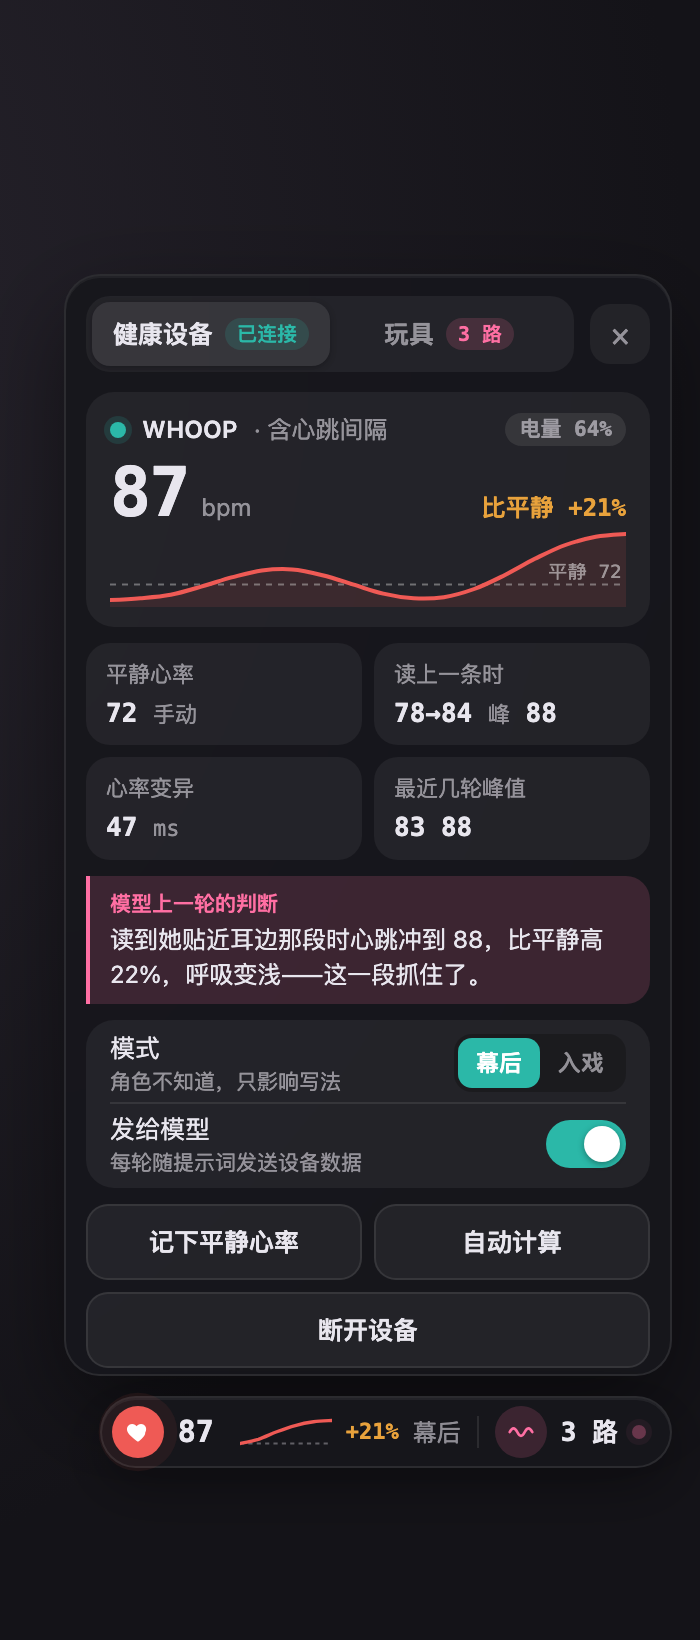
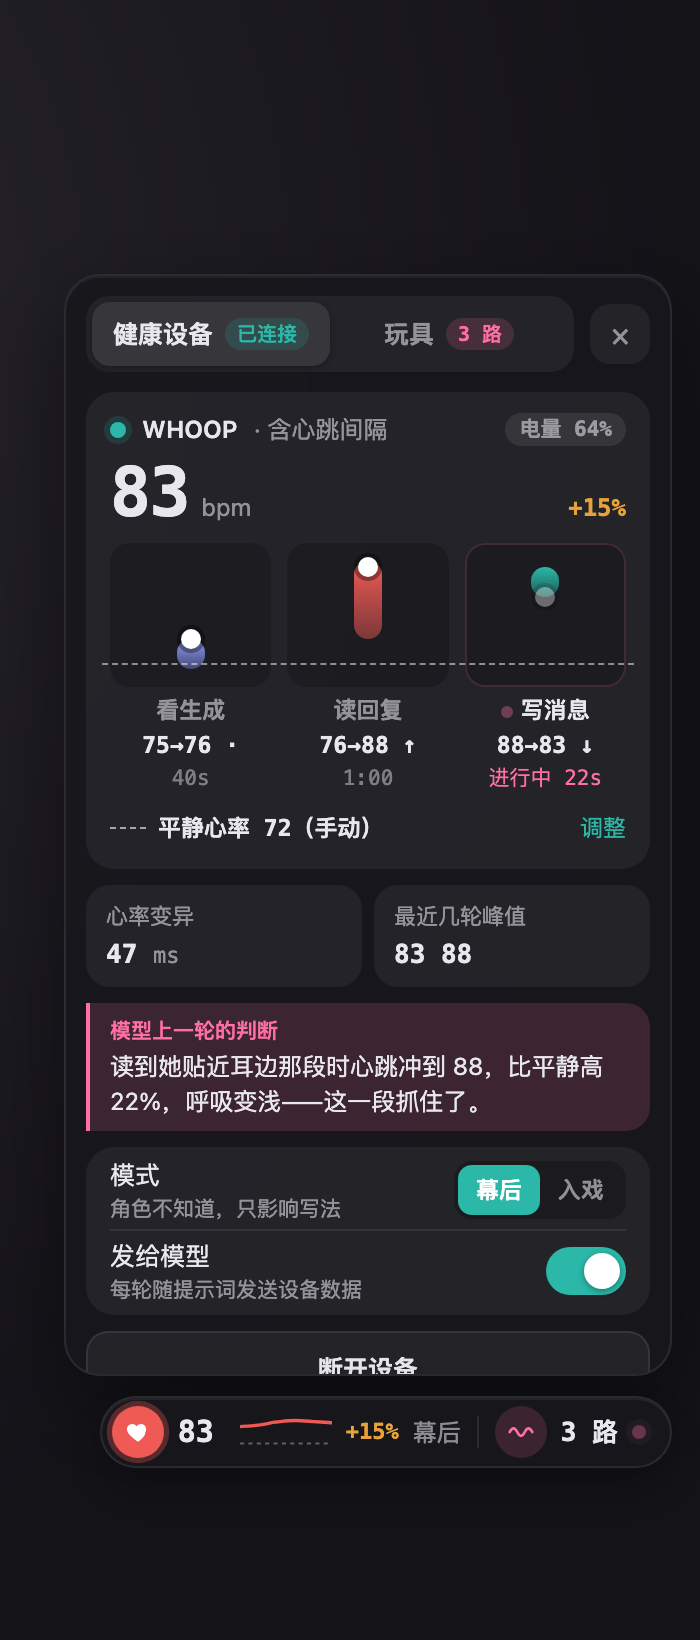
heartlink 0.13.0

diff --git a/index.js b/index.js
@@ -1,4 +1,4 @@
-// heartlink v0.12.0 — SillyTavern 扩展：心率注入 + 触觉输出（Tavern Bio-Context 参考实现）。构建产物。
+// heartlink v0.13.0 — SillyTavern 扩展：心率注入 + 触觉输出（Tavern Bio-Context 参考实现）。构建产物。
 // https://github.com/kcgoofee-jpg/heartlink-extension
 // heartlink core — 纯函数层。没有 DOM、没有蓝牙、没有酒馆 API，Node 和浏览器都能跑。
 // 运行时（runtime.js）和单元测试共用这一份。构建时与 runtime.js 拼成 dist/heartlink.js。
@@ -507,7 +507,7 @@ const HeartlinkCore = (() => {
     } else L.push('write: n/a (no typing detected)');
 
     L.push(turn.away.length
-      ? 'away: ' + turn.away.map(([a, b, k]) => { const st = stats(inWin(samples, a, b)); return `${fmtClock(a)}–${fmtClock(b)} ${k}${st ? ` [${st.min}–${st.max}]` : ''}`; }).join('; ')
+      ? 'away: ' + turn.away.slice(-5).map(([a, b, k]) => { const st = stats(inWin(samples, a, b)); return `${fmtClock(a)}–${fmtClock(b)} ${k}${st ? ` [${st.min}–${st.max}]` : ''}`; }).join('; ')
       : 'away: none');
 
     const sendSt = stats(inWin(samples, now - 5000, now));
@@ -700,6 +700,7 @@ const HeartlinkHaptics = (() => {
   function createRegistry({ timers, now, emit, policy, log }) {
     const T = timers;
     const items = new Map();   // id → { caps, handler, lastAt, run }
+    const queued = new Set();  // 回复里排队、还没开始的动作（timer id）；全部停止时一并取消
     let last = null;
     let lastOk = null;   // 块里的 device 行用最近一次成功的触发
 
@@ -733,7 +734,11 @@ const HeartlinkHaptics = (() => {
     }
     function stop(id) {
       if (id) { const it = items.get(String(id)); if (it) stopOne(String(id), it); }
-      else for (const [k, it] of items) stopOne(k, it);
+      else {
+        for (const x of queued) T.clearTimeout(x);
+        queued.clear();
+        for (const [k, it] of items) stopOne(k, it);
+      }
       emit('bio:actuate', { t: now(), target: id || '*', action: { stop: true }, results: [], source: 'stop' });
     }
 
@@ -789,13 +794,14 @@ const HeartlinkHaptics = (() => {
         const ready = Math.max(0, ...hits.map(([, it]) => (it.lastAt == null ? 0 : it.lastAt + gap - now() + 50)));
         const at = first ? ready : Math.max(ready, prevAt + Math.max(gap, prevSpan + 300) + 50);
         const frames = patternFrames(act.pattern, act.intensity, act.durationMs, { defaultMs: pol.defaultMs });
-        ids.push(T.setTimeout(() => { actuate(act.target, act, { source }); }, at));
+        const tid = T.setTimeout(() => { queued.delete(tid); actuate(act.target, act, { source }); }, at);
+        queued.add(tid); ids.push(tid);
         prevAt = at; prevSpan = frames[frames.length - 1][0]; first = false;
       }
-      return { scheduled: ids.length, cancel() { ids.forEach((x) => T.clearTimeout(x)); } };
+      return { scheduled: ids.length, cancel() { ids.forEach((x) => { T.clearTimeout(x); queued.delete(x); }); } };
     }
 
-    return { register, unregister, list, actuate, stop, runReplyActs, last: () => last, lastOk: () => lastOk };
+    return { register, unregister, list, actuate, stop, runReplyActs, pending: () => queued.size, last: () => last, lastOk: () => lastOk };
   }
 
   // ---------- Intiface / buttplug ----------
@@ -988,7 +994,7 @@ if (typeof module !== 'undefined' && module.exports) module.exports = HeartlinkH
 (function heartlinkRuntime() {
   'use strict';
 
-  const VERSION = '0.12.0';
+  const VERSION = '0.13.0';
   const CONFIG = {
     RUNTIME_KEY: '__HEARTLINK_RUNTIME__',
     PUBLIC_KEY: 'heartlink',
@@ -1024,7 +1030,7 @@ if (typeof module !== 'undefined' && module.exports) module.exports = HeartlinkH
     LAB_URL: 'http://127.0.0.1:12346/lab/',   // 设备实验室（~/dev/tbc/device-lab，npm run sim）
   };
   const LOG = '[heartlink]';
-  const GUIDE_BOOK = [{"name":"00 bio_context 读法（常驻）","enabled":true,"content":"<bio_context_guide>\n对话中可能出现一个 <bio_context> 块（Tavern Bio-Context v0.3）。块首行可能带 device / transport / cadence（采样间隔）/ rr（是否有心跳间期）/ trigger（本轮是新消息、重roll、continue 还是 impersonate）；cadence 越粗（30 秒以上）数据越稀疏，trigger 不是 normal 时 read 相位描述的是上一条被重roll或被续写的回复。它记录屏幕前那位真实读者在上一轮到这一轮之间的心率，按页面事件切成相位；数据来自读者佩戴的心率设备，是真实测量，不是剧情设定。\n相位归属（scope 行）：gen、read、read-pos 是读者等待和阅读**上一条回复**时的身体；write、send 是写**这一条消息**时和发送那一刻的身体。不要把 read 的峰值安到本轮新消息里发生的事情上。字段：\n- baseline：本场基线心率（quiet-median = 安静段中位数；p20 = 全场 20 分位；manual = 手动）与安静时 HRV。\n- prior：非实时来源（官方 API / 健康桥）的日级数据，带日期：昨夜恢复分、HRV、静息心率、睡眠时长、皮温。它说明读者今天的底子，不是此刻的反应；日期不是今天时不要当作今天。\n- history：最近几轮“读回复”的峰值、读时长、HRV，按时间顺序，最右是上一轮。看的是趋势：峰值一轮比一轮高说明越来越投入，越来越低说明在冷却。\n- gen：读者看上一条回复生成期间（ttft 等首字、reasoning 思维链、body 正文）的心率。\n- read：读上一条回复的时长、心率走向 [区间]、峰值出现在回复出完后多少秒、rr-loss（心跳间隔缺失率，越高说明手腕在动、数值可信度越低）、hrv。**这是最能反映读者对上一段内容反应的相位**；峰值时刻大致对应读到的位置。带 flag: too-long 的读回复不可当作阅读反应。\n- read-pos：把 read 的峰值时刻按阅读速度换算成大约读到回复的百分比与段落；est 是估计、cal 是按本场历史校准。它只回答“峰值大约对应哪一段”。写 partial 时表示读者读的时间远不够读完这条回复（在跳读或没读完），只给出峰值在读时长里的相对位置，不要当成段落位置。\n- cov：该相位的样本覆盖率，低于 70% 的相位数据不可靠。\n- write：写消息的时长、字数、停顿、删改与心率。手腕在动，只看大趋势。\n- away：页面切走或长时间无操作的区间，其中的心率与对话无关，忽略。\n- send：按下发送时的心率与相对基线的百分比。\n- env：读者所在房间的温湿度最近值，与身体反应无关，只是环境背景。\n- 其它信号行（如 pressure(civet, 100ms): read 7.9→12.3 kPa …）：读者身上别的传感器在同一相位里的走向，单位随行；只看相对变化，不与心率合成结论。\n- device：读者当前连接的设备正在做什么（强度、模式、持续时间），来自设备控制器的登记；它是作者视角的幕后事实，author 模式下角色不知道，character 模式下只允许角色察觉由它引起的可观察反应，不点名设备。\n- series：每 10 秒一个点的原始序列。\n判断尺度：baseline 为 n/a 时不做“比刚才 / 比平时快慢”的比较；与 away 重叠、带 flag 或 cov 低于 70% 的相位不据此判断。相对基线 10% 以内是噪声；持续高 20% 以上且出现在 read 相位，才是明确反应。HRV 明显低于安静值说明绷着或亢奋，明显高说明放松。块内没有结论，解释由你完成；块不出现时忽略本说明。\n</bio_context_guide>","strategy":{"type":"constant","keys":[]},"position":{"type":"after_character_definition","order":100},"recursion":{"prevent_incoming":true,"prevent_outgoing":true},"extra":{"heartlink":"0.12.0"}},{"name":"10 mode=backstage 幕后（旧 author）","enabled":true,"content":"<bio_context> 处于幕后模式（backstage，旧名 author）：它是给你这位作者/裁决者的幕后读者反馈，剧情里任何角色都不知道它，{{user}} 角色的身体状态与它无关。只做三件事：\n1. 从 read 与 history 判断读者对上一段的反应走向（被抓住了 / 平淡 / 正在冷却 / 数据不足），据此决定本段的详略、张力与结尾钩子；预设若有推进 / 节奏模式，结构（跳时、转场、新事件）仍按预设，读者反应只调写法。\n2. 反应上升时顺势推进、加深、留悬念；平淡时换手法（换视角、加冲突、加感官细节、缩短铺垫），不要重复上一段的写法；冷却时给一个新钩子。\n3. 不在正文里提及心率、设备、读者或任何数据；不让角色“察觉”读者；不因数据改变既定事实与规则裁决。","strategy":{"type":"selective","keys":["mode=\"backstage\"","mode=\"author\""]},"position":{"type":"at_depth","role":"system","depth":2,"order":90},"recursion":{"prevent_incoming":true,"prevent_outgoing":true},"extra":{"heartlink":"0.12.0"}},{"name":"11 mode=in-story 入戏（旧 character）","enabled":true,"content":"<bio_context> 处于入戏模式（in-story，旧名 character）：读者代入 {{user}}。send 是 {{user}} 此刻的身体状态；read 是 {{user}} 经历上一段情节时的反应（只能对应上一段里发生的事，不能安到本轮新动作上）。让在场角色通过可观察的线索察觉（呼吸、面色、手、声音、姿态），并按各自性格与关系回应。仍然不说数字、不提设备；gen、write、away 的数据不用于角色感知。首行若有 perceiver 属性（卡片指定的感知者），只让这些角色表达察觉，其他在场角色照常行动、不评论 {{user}} 的身体。","strategy":{"type":"selective","keys":["mode=\"in-story\"","mode=\"character\""]},"position":{"type":"at_depth","role":"system","depth":2,"order":90},"recursion":{"prevent_incoming":true,"prevent_outgoing":true},"extra":{"heartlink":"0.12.0"}}];
+  const GUIDE_BOOK = [{"name":"00 bio_context 读法（常驻）","enabled":true,"content":"<bio_context_guide>\n对话中可能出现一个 <bio_context> 块（Tavern Bio-Context v0.3）。块首行可能带 device / transport / cadence（采样间隔）/ rr（是否有心跳间期）/ trigger（本轮是新消息、重roll、continue 还是 impersonate）；cadence 越粗（30 秒以上）数据越稀疏，trigger 不是 normal 时 read 相位描述的是上一条被重roll或被续写的回复。它记录屏幕前那位真实读者在上一轮到这一轮之间的心率，按页面事件切成相位；数据来自读者佩戴的心率设备，是真实测量，不是剧情设定。\n相位归属（scope 行）：gen、read、read-pos 是读者等待和阅读**上一条回复**时的身体；write、send 是写**这一条消息**时和发送那一刻的身体。不要把 read 的峰值安到本轮新消息里发生的事情上。字段：\n- baseline：本场基线心率（quiet-median = 安静段中位数；p20 = 全场 20 分位；manual = 手动）与安静时 HRV。\n- prior：非实时来源（官方 API / 健康桥）的日级数据，带日期：昨夜恢复分、HRV、静息心率、睡眠时长、皮温。它说明读者今天的底子，不是此刻的反应；日期不是今天时不要当作今天。\n- history：最近几轮“读回复”的峰值、读时长、HRV，按时间顺序，最右是上一轮。看的是趋势：峰值一轮比一轮高说明越来越投入，越来越低说明在冷却。\n- gen：读者看上一条回复生成期间（ttft 等首字、reasoning 思维链、body 正文）的心率。\n- read：读上一条回复的时长、心率走向 [区间]、峰值出现在回复出完后多少秒、rr-loss（心跳间隔缺失率，越高说明手腕在动、数值可信度越低）、hrv。**这是最能反映读者对上一段内容反应的相位**；峰值时刻大致对应读到的位置。带 flag: too-long 的读回复不可当作阅读反应。\n- read-pos：把 read 的峰值时刻按阅读速度换算成大约读到回复的百分比与段落；est 是估计、cal 是按本场历史校准。它只回答“峰值大约对应哪一段”。写 partial 时表示读者读的时间远不够读完这条回复（在跳读或没读完），只给出峰值在读时长里的相对位置，不要当成段落位置。\n- cov：该相位的样本覆盖率，低于 70% 的相位数据不可靠。\n- write：写消息的时长、字数、停顿、删改与心率。手腕在动，只看大趋势。\n- away：页面切走或长时间无操作的区间，其中的心率与对话无关，忽略。\n- send：按下发送时的心率与相对基线的百分比。\n- env：读者所在房间的温湿度最近值，与身体反应无关，只是环境背景。\n- 其它信号行（如 pressure(civet, 100ms): read 7.9→12.3 kPa …）：读者身上别的传感器在同一相位里的走向，单位随行；只看相对变化，不与心率合成结论。\n- device：读者当前连接的设备正在做什么（强度、模式、持续时间），来自设备控制器的登记；它是作者视角的幕后事实，author 模式下角色不知道，character 模式下只允许角色察觉由它引起的可观察反应，不点名设备。\n- series：每 10 秒一个点的原始序列。\n判断尺度：baseline 为 n/a 时不做“比刚才 / 比平时快慢”的比较；与 away 重叠、带 flag 或 cov 低于 70% 的相位不据此判断。相对基线 10% 以内是噪声；持续高 20% 以上且出现在 read 相位，才是明确反应。HRV 明显低于安静值说明绷着或亢奋，明显高说明放松。块内没有结论，解释由你完成；块不出现时忽略本说明。\n</bio_context_guide>","strategy":{"type":"constant","keys":[]},"position":{"type":"after_character_definition","order":100},"recursion":{"prevent_incoming":true,"prevent_outgoing":true},"extra":{"heartlink":"0.13.0"}},{"name":"10 mode=backstage 幕后（旧 author）","enabled":true,"content":"<bio_context> 处于幕后模式（backstage，旧名 author）：它是给你这位作者/裁决者的幕后读者反馈，剧情里任何角色都不知道它，{{user}} 角色的身体状态与它无关。只做三件事：\n1. 从 read 与 history 判断读者对上一段的反应走向（被抓住了 / 平淡 / 正在冷却 / 数据不足），据此决定本段的详略、张力与结尾钩子；预设若有推进 / 节奏模式，结构（跳时、转场、新事件）仍按预设，读者反应只调写法。\n2. 反应上升时顺势推进、加深、留悬念；平淡时换手法（换视角、加冲突、加感官细节、缩短铺垫），不要重复上一段的写法；冷却时给一个新钩子。\n3. 不在正文里提及心率、设备、读者或任何数据；不让角色“察觉”读者；不因数据改变既定事实与规则裁决。","strategy":{"type":"selective","keys":["mode=\"backstage\"","mode=\"author\""]},"position":{"type":"at_depth","role":"system","depth":2,"order":90},"recursion":{"prevent_incoming":true,"prevent_outgoing":true},"extra":{"heartlink":"0.13.0"}},{"name":"11 mode=in-story 入戏（旧 character）","enabled":true,"content":"<bio_context> 处于入戏模式（in-story，旧名 character）：读者代入 {{user}}。send 是 {{user}} 此刻的身体状态；read 是 {{user}} 经历上一段情节时的反应（只能对应上一段里发生的事，不能安到本轮新动作上）。让在场角色通过可观察的线索察觉（呼吸、面色、手、声音、姿态），并按各自性格与关系回应。仍然不说数字、不提设备；gen、write、away 的数据不用于角色感知。首行若有 perceiver 属性（卡片指定的感知者），只让这些角色表达察觉，其他在场角色照常行动、不评论 {{user}} 的身体。","strategy":{"type":"selective","keys":["mode=\"in-story\"","mode=\"character\""]},"position":{"type":"at_depth","role":"system","depth":2,"order":90},"recursion":{"prevent_incoming":true,"prevent_outgoing":true},"extra":{"heartlink":"0.13.0"}}];
   const GUIDE_BOOK_NATIVE = [{"uid":0,"key":[],"keysecondary":[],"comment":"00 bio_context 读法（常驻）","content":"<bio_context_guide>\n对话中可能出现一个 <bio_context> 块（Tavern Bio-Context v0.3）。块首行可能带 device / transport / cadence（采样间隔）/ rr（是否有心跳间期）/ trigger（本轮是新消息、重roll、continue 还是 impersonate）；cadence 越粗（30 秒以上）数据越稀疏，trigger 不是 normal 时 read 相位描述的是上一条被重roll或被续写的回复。它记录屏幕前那位真实读者在上一轮到这一轮之间的心率，按页面事件切成相位；数据来自读者佩戴的心率设备，是真实测量，不是剧情设定。\n相位归属（scope 行）：gen、read、read-pos 是读者等待和阅读**上一条回复**时的身体；write、send 是写**这一条消息**时和发送那一刻的身体。不要把 read 的峰值安到本轮新消息里发生的事情上。字段：\n- baseline：本场基线心率（quiet-median = 安静段中位数；p20 = 全场 20 分位；manual = 手动）与安静时 HRV。\n- prior：非实时来源（官方 API / 健康桥）的日级数据，带日期：昨夜恢复分、HRV、静息心率、睡眠时长、皮温。它说明读者今天的底子，不是此刻的反应；日期不是今天时不要当作今天。\n- history：最近几轮“读回复”的峰值、读时长、HRV，按时间顺序，最右是上一轮。看的是趋势：峰值一轮比一轮高说明越来越投入，越来越低说明在冷却。\n- gen：读者看上一条回复生成期间（ttft 等首字、reasoning 思维链、body 正文）的心率。\n- read：读上一条回复的时长、心率走向 [区间]、峰值出现在回复出完后多少秒、rr-loss（心跳间隔缺失率，越高说明手腕在动、数值可信度越低）、hrv。**这是最能反映读者对上一段内容反应的相位**；峰值时刻大致对应读到的位置。带 flag: too-long 的读回复不可当作阅读反应。\n- read-pos：把 read 的峰值时刻按阅读速度换算成大约读到回复的百分比与段落；est 是估计、cal 是按本场历史校准。它只回答“峰值大约对应哪一段”。写 partial 时表示读者读的时间远不够读完这条回复（在跳读或没读完），只给出峰值在读时长里的相对位置，不要当成段落位置。\n- cov：该相位的样本覆盖率，低于 70% 的相位数据不可靠。\n- write：写消息的时长、字数、停顿、删改与心率。手腕在动，只看大趋势。\n- away：页面切走或长时间无操作的区间，其中的心率与对话无关，忽略。\n- send：按下发送时的心率与相对基线的百分比。\n- env：读者所在房间的温湿度最近值，与身体反应无关，只是环境背景。\n- 其它信号行（如 pressure(civet, 100ms): read 7.9→12.3 kPa …）：读者身上别的传感器在同一相位里的走向，单位随行；只看相对变化，不与心率合成结论。\n- device：读者当前连接的设备正在做什么（强度、模式、持续时间），来自设备控制器的登记；它是作者视角的幕后事实，author 模式下角色不知道，character 模式下只允许角色察觉由它引起的可观察反应，不点名设备。\n- series：每 10 秒一个点的原始序列。\n判断尺度：baseline 为 n/a 时不做“比刚才 / 比平时快慢”的比较；与 away 重叠、带 flag 或 cov 低于 70% 的相位不据此判断。相对基线 10% 以内是噪声；持续高 20% 以上且出现在 read 相位，才是明确反应。HRV 明显低于安静值说明绷着或亢奋，明显高说明放松。块内没有结论，解释由你完成；块不出现时忽略本说明。\n</bio_context_guide>","constant":true,"vectorized":false,"selective":true,"selectiveLogic":0,"addMemo":true,"order":100,"position":1,"disable":false,"excludeRecursion":true,"preventRecursion":true,"delayUntilRecursion":false,"probability":100,"useProbability":true,"depth":4,"group":"","groupOverride":false,"groupWeight":100,"scanDepth":null,"caseSensitive":false,"matchWholeWords":false,"useGroupScoring":null,"automationId":"","role":0,"sticky":0,"cooldown":0,"delay":0,"displayIndex":0},{"uid":1,"key":["mode=\"backstage\"","mode=\"author\""],"keysecondary":[],"comment":"10 mode=backstage 幕后（旧 author）","content":"<bio_context> 处于幕后模式（backstage，旧名 author）：它是给你这位作者/裁决者的幕后读者反馈，剧情里任何角色都不知道它，{{user}} 角色的身体状态与它无关。只做三件事：\n1. 从 read 与 history 判断读者对上一段的反应走向（被抓住了 / 平淡 / 正在冷却 / 数据不足），据此决定本段的详略、张力与结尾钩子；预设若有推进 / 节奏模式，结构（跳时、转场、新事件）仍按预设，读者反应只调写法。\n2. 反应上升时顺势推进、加深、留悬念；平淡时换手法（换视角、加冲突、加感官细节、缩短铺垫），不要重复上一段的写法；冷却时给一个新钩子。\n3. 不在正文里提及心率、设备、读者或任何数据；不让角色“察觉”读者；不因数据改变既定事实与规则裁决。","constant":false,"vectorized":false,"selective":true,"selectiveLogic":0,"addMemo":true,"order":90,"position":4,"disable":false,"excludeRecursion":true,"preventRecursion":true,"delayUntilRecursion":false,"probability":100,"useProbability":true,"depth":2,"group":"","groupOverride":false,"groupWeight":100,"scanDepth":null,"caseSensitive":false,"matchWholeWords":false,"useGroupScoring":null,"automationId":"","role":0,"sticky":0,"cooldown":0,"delay":0,"displayIndex":1},{"uid":2,"key":["mode=\"in-story\"","mode=\"character\""],"keysecondary":[],"comment":"11 mode=in-story 入戏（旧 character）","content":"<bio_context> 处于入戏模式（in-story，旧名 character）：读者代入 {{user}}。send 是 {{user}} 此刻的身体状态；read 是 {{user}} 经历上一段情节时的反应（只能对应上一段里发生的事，不能安到本轮新动作上）。让在场角色通过可观察的线索察觉（呼吸、面色、手、声音、姿态），并按各自性格与关系回应。仍然不说数字、不提设备；gen、write、away 的数据不用于角色感知。首行若有 perceiver 属性（卡片指定的感知者），只让这些角色表达察觉，其他在场角色照常行动、不评论 {{user}} 的身体。","constant":false,"vectorized":false,"selective":true,"selectiveLogic":0,"addMemo":true,"order":90,"position":4,"disable":false,"excludeRecursion":true,"preventRecursion":true,"delayUntilRecursion":false,"probability":100,"useProbability":true,"depth":2,"group":"","groupOverride":false,"groupWeight":100,"scanDepth":null,"caseSensitive":false,"matchWholeWords":false,"useGroupScoring":null,"automationId":"","role":0,"sticky":0,"cooldown":0,"delay":0,"displayIndex":2}];
   // 1.0：同一份源码构建两种形态——'script' 酒馆助手全局脚本（旧），'extension' 酒馆扩展
   const FORM = 'extension';
@@ -1365,7 +1371,7 @@ if (typeof module !== 'undefined' && module.exports) module.exports = HeartlinkH
     let ws;
     try { ws = new host.WebSocket(CONFIG.BRIDGE_URL); } catch (_) { return; }
     state.bridge = ws; state.bridgeAttempt = attempt || 0;
-    ws.onopen = () => { state.bridgeAttempt = 0; state.bridgeUp = true; bridgeSend({ cmd: 'hello', client: 'sillytavern-heartlink', version: VERSION }); bridgeState(); console.log(LOG, 'bridge connected', CONFIG.BRIDGE_URL); render(); };
+    ws.onopen = () => { state.bridgeAttempt = 0; state.bridgeUp = true; state.bridgeEverUp = true; bridgeSend({ cmd: 'hello', client: 'sillytavern-heartlink', version: VERSION }); bridgeState(); console.log(LOG, 'bridge connected', CONFIG.BRIDGE_URL); render(); };
     ws.onmessage = (ev) => {
       let m; try { m = JSON.parse(ev.data); } catch (_) { return; }
       if (!m || !m.event) return;
@@ -1376,7 +1382,7 @@ if (typeof module !== 'undefined' && module.exports) module.exports = HeartlinkH
       } else if (m.event === 'bio:state' && m.detail) { state.bridgeInfo = m.detail; render(); }
       else if (m.event === 'bio:prior' && m.detail) { setPrior(m.detail); console.log(LOG, 'prior from bridge', m.detail.source, m.detail.date); }
     };
-    ws.onclose = () => { state.bridgeUp = false; state.bridgeInfo = null; render(); const n = state.bridgeAttempt || 0; const delay = CONFIG.BRIDGE_RETRY_MS[Math.min(n, CONFIG.BRIDGE_RETRY_MS.length - 1)]; host.setTimeout(() => bridgeConnect(n + 1), delay); };
+    ws.onclose = () => { state.bridgeUp = false; state.bridgeInfo = null; render(); const n = state.bridgeAttempt || 0; if (!state.bridgeEverUp && n >= 2) { console.log(LOG, 'bridge not running; stop retrying (reload the page after starting it)'); return; } const delay = CONFIG.BRIDGE_RETRY_MS[Math.min(n, CONFIG.BRIDGE_RETRY_MS.length - 1)]; host.setTimeout(() => bridgeConnect(n + 1), delay); };
     ws.onerror = () => {};
   }
   function currentPhase() {
@@ -1675,6 +1681,8 @@ if (typeof module !== 'undefined' && module.exports) module.exports = HeartlinkH
     return promise;
   }
   async function subscribeOnce(device) {
+    const prev = state.device;
+    if (prev && prev !== device) { try { if (prev.gatt && prev.gatt.connected) prev.gatt.disconnect(); } catch (_) {} }   // 换设备时释放旧的
     const server = await device.gatt.connect();
     const service = await server.getPrimaryService('heart_rate');
     const characteristic = await service.getCharacteristic('heart_rate_measurement');
@@ -1729,10 +1737,11 @@ if (typeof module !== 'undefined' && module.exports) module.exports = HeartlinkH
       try { await subscribe(device); stopAdvertisementWatch(); pushEvent('ble_resumed', { via: 'advertisement' }); toast('success', `已自动重连 ${device.name || '心率设备'}`); }
       catch (err) { console.log(LOG, 'advertisement reconnect failed, still watching:', err && err.message); }
     };
+    const ac = typeof host.AbortController === 'function' ? new host.AbortController() : null;
     try {
       device.addEventListener('advertisementreceived', onAdv);
-      await device.watchAdvertisements();
-      state.advWatch = { device, onAdv };
+      await device.watchAdvertisements(ac ? { signal: ac.signal } : undefined);
+      state.advWatch = { device, onAdv, ac };
       state.waitingForDevice = true;
       return true;
     } catch (err) {
@@ -1746,6 +1755,7 @@ if (typeof module !== 'undefined' && module.exports) module.exports = HeartlinkH
     state.advWatch = null; state.waitingForDevice = false;
     if (!w) return;
     try { w.device.removeEventListener('advertisementreceived', w.onAdv); } catch (_) {}
+    try { if (w.ac) w.ac.abort(); } catch (_) {}   // Chrome：用 signal 结束扫描
     try { if (typeof w.device.unwatchAdvertisements === 'function') w.device.unwatchAdvertisements(); } catch (_) {}
   }
   // 看门狗：显示已连接却长时间没数据（常见的“假连接”）→ 先重新订阅，仍没有就断开，交给重连流程
@@ -1753,8 +1763,12 @@ if (typeof module !== 'undefined' && module.exports) module.exports = HeartlinkH
     if (!state.connected || !state.device || state.subscribing) return;
     const last = Math.max(state.lastSample ? state.lastSample.t : 0, state.connectedAt || 0);
     const idle = Date.now() - last;
-    if (idle < CONFIG.STALE_MS) { if (idle < 3000) state.staleStep = 0; return; }
+    if (idle < CONFIG.STALE_MS) { if (idle < 3000) { state.staleStep = 0; if (state.lastSample && Date.now() - state.lastSample.t < 3000) { state.staleFixes = 0; state.staleGaveUp = false; } } return; }
     if (!state.staleStep) {
+      if ((state.staleFixes || 0) >= 3) {   // 连得上却一直不发数据：试过 3 轮就不再折腾，提示一次
+        if (!state.staleGaveUp) { state.staleGaveUp = true; toast('warning', '心率设备连着但一直没有数据：请检查设备是否打开了“心率广播”，或断开后重新连接。'); }
+        return;
+      }
       state.staleStep = 1; state.staleFixes = (state.staleFixes || 0) + 1;
       pushEvent('ble_stale', { idleMs: idle, action: 'resubscribe' });
       console.warn(LOG, `no heart-rate data for ${Math.round(idle / 1000)}s, re-subscribing`);
@@ -1810,10 +1824,8 @@ if (typeof module !== 'undefined' && module.exports) module.exports = HeartlinkH
       const devices = await bt.getDevices();
       const target = devices.find((d) => d.name === state.deviceName) || devices[0];
       if (!target) { console.log(LOG, 'resume: no remembered device'); return; }
-      const onAdv = async () => { try { target.removeEventListener('advertisementreceived', onAdv); } catch (_) {} try { await subscribe(target); toast('success', `已自动重连 ${target.name || '心率设备'}`); } catch (err) { console.warn(LOG, 'resume subscribe failed', err); } };
-      target.addEventListener('advertisementreceived', onAdv);
-      await target.watchAdvertisements();
-      console.log(LOG, 'resume: watching advertisements from', target.name);
+      state.device = state.device || target;   // 让“断开设备”能停掉这次等待
+      if (await waitForAdvertisement(target)) console.log(LOG, 'resume: watching advertisements from', target.name);
     } catch (err) { console.log(LOG, 'resume unavailable:', err && err.message); }
   }
 
@@ -2034,11 +2046,11 @@ if (typeof module !== 'undefined' && module.exports) module.exports = HeartlinkH
       const kind = String(type == null ? '' : type);
       if (!userKinds.has(kind)) { state.backgroundGen = true; clearInject(); state.backgroundSkipped = (state.backgroundSkipped || 0) + 1; pushEvent('background_gen', { kind }); return; }
       state.backgroundGen = false; state.generating = true; state.streamStarted = false; state.reasoningEnded = false;
-      try { const ch = (ctx() || {}).chat || []; const lu = [...ch].reverse().find((m) => m.is_user); if (lu && safeWordHit(lu.mes) && actuators.list().some((a) => a.busy)) { actuators.stop(); toast('info', '听到了停止的话，设备已停'); } } catch (_) {}
+      try { const ch = (ctx() || {}).chat || []; const lu = [...ch].reverse().find((m) => m.is_user); if (lu && safeWordHit(lu.mes) && (actuators.list().some((a) => a.busy) || actuators.pending())) { actuators.stop(); toast('info', '听到了停止的话，设备已停'); } } catch (_) {}
       state.userGenActive = true;
       state.lastTrigger = kind || 'normal';
-      state.continueGen = kind === 'continue';
-      if (state.continueGen) return;                      // continue：不是新的发送，不切相位
+      state.continueGen = kind === 'continue' || kind === 'impersonate';
+      if (state.continueGen) return;                      // continue / impersonate：不是新的一轮，不切相位（只重放上一块）
       state.lastSendT = Date.now();
       pushEvent('send', { kind: kind || 'normal' });
     });
@@ -2102,6 +2114,10 @@ if (typeof module !== 'undefined' && module.exports) module.exports = HeartlinkH
     doc.addEventListener('visibilitychange', onVis);
     disposers.push(() => doc.removeEventListener('visibilitychange', onVis));
     if (doc.visibilityState === 'hidden') pushEvent('hidden');
+    // 没有 Worker 计时时，后台页的计时会被浏览器压慢，玩具可能停不下来：页面一藏起来就全停
+    const onHideStop = () => { if (doc.visibilityState === 'hidden' && hTimers.kind === 'page') { try { actuators.stop(); } catch (_) {} } };
+    doc.addEventListener('visibilitychange', onHideStop);
+    disposers.push(() => doc.removeEventListener('visibilitychange', onHideStop));
   }
 
   // ---------- 悬浮窗（Shadow DOM，底色取酒馆主题变量；强调色固定，避免主题色是灰色时看不出状态） ----------
@@ -2186,6 +2202,32 @@ button:focus-visible{outline:2px solid var(--teal);outline-offset:2px}
 .wide .ref{stroke:rgba(255,255,255,.35);stroke-width:1;stroke-dasharray:3 3;vector-effect:non-scaling-stroke}
 .reflab{fill:rgba(255,255,255,.5);font:9px var(--mono)}
 .empty{color:var(--muted);font-size:12.5px;line-height:1.55;margin:2px 0 10px}
+.phases{position:relative;margin-top:8px}
+.cols{display:grid;grid-template-columns:repeat(3,minmax(0,1fr));gap:8px}
+.ph{display:flex;flex-direction:column;align-items:center;gap:3px;min-width:0}
+.track{position:relative;width:100%;height:72px;border-radius:10px;background:rgba(0,0,0,.18)}
+.range{position:absolute;left:50%;width:14px;margin-left:-7px;border-radius:7px;background:linear-gradient(180deg,var(--heart),rgba(239,90,85,.45))}
+.ph[data-ph="gen"] .range{background:linear-gradient(180deg,#8f9cf5,rgba(124,140,240,.4))}
+.ph[data-ph="write"] .range{background:linear-gradient(180deg,var(--teal),rgba(43,184,168,.4))}
+.now{position:absolute;left:50%;width:10px;height:10px;margin:-5px 0 0 -5px;border-radius:50%;background:#fff;box-shadow:0 0 0 2px rgba(0,0,0,.35)}
+.ph.none .range,.ph.none .now{display:none}
+.ph b{font-size:11.5px;font-weight:600;color:var(--muted)}
+.ph.cur b{color:var(--ink)}
+.ph.cur b::before{content:"";display:inline-block;width:6px;height:6px;border-radius:50%;background:var(--pink);margin-right:4px;vertical-align:middle;animation:blink 1.2s infinite}
+.pt{font:10.5px/1.2 var(--mono);color:var(--muted);opacity:.8}
+.ph.cur .pt{color:var(--pink);opacity:1}
+.ph.cur .track{box-shadow:inset 0 0 0 1px var(--pink-soft)}
+.ph.cur .now{animation:blink 1.2s infinite}
+.pv{font:600 11.5px/1.2 var(--mono);color:var(--ink);white-space:nowrap;overflow:hidden;text-overflow:ellipsis;max-width:100%}
+.baseline{position:absolute;left:-4px;right:-4px;height:0;border-top:1px dashed rgba(255,255,255,.5);pointer-events:none;z-index:2}
+.baselab{display:flex;align-items:center;gap:6px;width:100%;margin-top:8px;border:0;background:transparent;padding:2px 0;cursor:pointer;font-size:11.5px;color:var(--muted);text-align:left}
+.baselab i{width:18px;border-top:1px dashed rgba(255,255,255,.6)}
+.baselab span{font:600 11.5px var(--mono);color:var(--ink)}
+.baselab em{margin-left:auto;font-style:normal;color:var(--teal)}
+.baselab:hover em{text-decoration:underline}
+.basemenu{display:flex;gap:6px;margin-top:8px}
+.basemenu button{flex:1;border:1px solid var(--hair);background:var(--raise2);border-radius:9px;padding:6px;font-size:12px;cursor:pointer}
+.basemenu button:hover{border-color:var(--teal);color:var(--teal)}
 .tiles{display:grid;grid-template-columns:1fr 1fr;gap:6px;margin-bottom:8px}
 .tile{background:var(--raise);border-radius:12px;padding:8px 10px;min-width:0}
 .tile span{display:block;font-size:11px;color:var(--muted);margin-bottom:3px}
@@ -2263,11 +2305,20 @@ button:focus-visible{outline:2px solid var(--teal);outline-offset:2px}
       <div class="block">
         <div class="status"><span class="sdot" data-f="hrDot"></span><b data-f="dev">--</b><span data-f="hrState"></span><span class="chip" data-f="batt"></span></div>
         <div class="big"><span class="n" data-f="cbpm">--</span><span class="u">bpm</span><span class="d" data-f="cdelta"></span></div>
-        <svg class="wide" viewBox="0 0 240 38" preserveAspectRatio="none"><path class="area" data-f="carea" d=""/><line class="ref" data-f="cref" x1="0" x2="240"/><text class="reflab" data-f="crefLabel" x="238" text-anchor="end"></text><path data-f="cline" d=""/></svg>
+        <div class="phases" data-f="phases">
+          <i class="baseline" data-f="baseLine"></i>
+          <div class="cols">
+            <div class="ph" data-ph="gen"><div class="track"><i class="range"></i><i class="now"></i></div><b>看生成</b><span class="pv">--</span><span class="pt"></span></div>
+            <div class="ph" data-ph="read"><div class="track"><i class="range"></i><i class="now"></i></div><b>读回复</b><span class="pv">--</span><span class="pt"></span></div>
+            <div class="ph" data-ph="write"><div class="track"><i class="range"></i><i class="now"></i></div><b>写消息</b><span class="pv">--</span><span class="pt"></span></div>
+          </div>
+        </div>
+        <button class="baselab" data-act="basemenu" title="平静心率：虚线的位置；右上角的百分比也是和它比。点一下可以记下或改回自动"><i></i><span data-f="base">平静心率 --</span><em>调整</em></button>
+        <div class="basemenu" data-f="baseMenu" hidden>
+          <button data-act="baseline">记下现在为平静</button><button data-act="clear">改回自动计算</button>
+        </div>
       </div>
       <div class="tiles">
-        <div class="tile"><span>平静心率</span><b data-f="base">--</b></div>
-        <div class="tile"><span>读上一条时</span><b data-f="read">--</b></div>
         <div class="tile"><span>心率变异</span><b data-f="hrv">--</b></div>
         <div class="tile"><span>最近几轮峰值</span><b data-f="last">--</b></div>
       </div>
@@ -2279,8 +2330,6 @@ button:focus-visible{outline:2px solid var(--teal);outline-offset:2px}
       <div class="item"><div class="lab">发给模型<small>每轮随提示词发送设备数据</small></div><button class="switch" role="switch" data-act="inject" aria-label="发给模型"></button></div>
     </div>
     <div class="row2" data-f="hrTools">
-      <button class="btn" data-act="baseline" title="把最近 60 秒的平均心率记为平静心率">记下平静心率</button>
-      <button class="btn" data-act="clear" title="平静心率改回自动计算">自动计算</button>
       <button class="btn full" data-act="disconnect">断开设备</button>
     </div>
     <ul class="help" data-f="help"></ul>
@@ -2328,7 +2377,7 @@ button:focus-visible{outline:2px solid var(--teal);outline-offset:2px}
 </div>`;
     const q = (s) => root.querySelector(s);
     el = { heart: q('[data-seg="hr"] .heart'), bpm: q('.bpm'), poly: q('.spark path'), sparkRef: q('.spark .ref'), delta: q('.delta'), tag: q('[data-seg="hr"] .tag'), pill: q('.pill'), spark: q('.spark') };
-    ['base', 'read', 'hrv', 'last', 'dev', 'out', 'sig', 'sigBox', 'foot', 'hrBadge', 'toyBadge', 'hrEmpty', 'hrLive', 'hrDot', 'hrState', 'batt', 'cbpm', 'cdelta', 'carea', 'cline', 'cref', 'crefLabel', 'modeHint', 'hrTools', 'toyEmpty', 'toyTiles', 'now', 'lastact', 'wasmState', 'help', 'devs', 'helpBtn']
+    ['base', 'read', 'hrv', 'last', 'dev', 'out', 'sig', 'sigBox', 'foot', 'hrBadge', 'toyBadge', 'hrEmpty', 'hrLive', 'hrDot', 'hrState', 'batt', 'cbpm', 'cdelta', 'phases', 'baseLine', 'baseMenu', 'modeHint', 'hrTools', 'toyEmpty', 'toyTiles', 'now', 'lastact', 'wasmState', 'help', 'devs', 'helpBtn']
       .forEach((f) => { el[f] = q(`[data-f="${f}"]`); });
     el.seg = { hr: q('[data-seg="hr"]'), toy: q('[data-seg="toy"]'), none: q('[data-seg="none"]') };
     el.segsep = q('.segsep');
@@ -2336,6 +2385,7 @@ button:focus-visible{outline:2px solid var(--teal);outline-offset:2px}
     el.tabs = [...root.querySelectorAll('[data-tab]')];
     el.panes = [...root.querySelectorAll('[data-pane]')];
     el.sets = [...root.querySelectorAll('[data-set]')];
+    el.ph = Object.fromEntries([...root.querySelectorAll('[data-ph]')].map((x) => [x.getAttribute('data-ph'), x]));
     el.injSw = q('[data-act="inject"]'); el.vibSw = q('[data-act="vib"]');
     el.toyBtn = q('[data-act="toy"]'); el.wasmBtn = q('[data-act="wasm"]'); el.offBtn = q('[data-act="disconnect"]');
     el.devs.addEventListener('change', (e) => {
@@ -2376,8 +2426,9 @@ button:focus-visible{outline:2px solid var(--teal);outline-offset:2px}
         if (act === 'hide') { setBadgeHidden(true); toast('info', '悬浮窗已隐藏。要恢复：点酒馆左下角的魔杖菜单 → “显示 heartlink 悬浮窗”。'); return; }
         if (act === 'halt') { actuators.stop(); closePanel(); toast('info', '已停止所有设备'); return; }
         if (act === 'preview') { console.log(LOG, 'preview:\n' + compose().text); toast('info', '这一轮要发给模型的内容已打印到浏览器控制台'); return; }
-        if (act === 'baseline') return setManualBaseline();
-        if (act === 'clear') return clearManualBaseline();
+        if (act === 'basemenu') { el.baseMenu.hidden = !el.baseMenu.hidden; return; }
+        if (act === 'baseline') { el.baseMenu.hidden = true; return setManualBaseline(); }
+        if (act === 'clear') { el.baseMenu.hidden = true; return clearManualBaseline(); }
         if (act === 'disconnect') { disconnect(); return render(); }
         if (act === 'hr') return connect();
         return;
@@ -2495,11 +2546,50 @@ button:focus-visible{outline:2px solid var(--teal);outline-offset:2px}
     const d = HeartlinkCore.sparkPath(pts, 44, 14, 6, ref);
     return { d, refY: HeartlinkCore.sparkPath.refY };
   }
-  function wideSpark(ref) {   // 面板里的宽曲线：最近 3 分钟
-    const now = Date.now();
-    const pts = HeartlinkCore.series(state.samples, now - 180000, now).map((v) => (v === '·' ? null : v));
-    const d = HeartlinkCore.sparkPath(pts, 240, 36, 6, ref);
-    return { line: d, area: d ? `${d} L240,38 L0,38 Z` : '', refY: HeartlinkCore.sparkPath.refY };
+  // 相位竖条：本轮 看生成 / 读回复 / 写消息 各一根，竖条是这段时间心率的最低到最高，圆点是结束时（进行中则为现在）；
+  // 虚线是平静心率。相位边界与注入块同一套规则（HeartlinkCore.buildTurn）
+  function phaseWindows(now) {
+    const t = HeartlinkCore.buildTurn(state.events, now);
+    const w = {};
+    if (state.generating && state.lastSendT) w.gen = [state.lastSendT, now, true];
+    else if (t.prevSend && t.replyEnd) w.gen = [t.prevSend, t.replyEnd, false];
+    if (!state.generating && t.readStart != null) w.read = [t.readStart, t.typingStart != null ? t.typingStart : now, t.typingStart == null];
+    if (!state.generating && t.typingStart != null) w.write = [t.typingStart, now, true];
+    return w;
+  }
+  function renderPhases(base, now) {
+    const w = phaseWindows(now);
+    const st = {};
+    for (const k of ['gen', 'read', 'write']) {
+      if (!w[k]) continue;
+      const xs = state.samples.filter((x) => x.t >= w[k][0] && x.t <= w[k][1]).map((x) => x.bpm);
+      if (xs.length) st[k] = { min: Math.min(...xs), max: Math.max(...xs), first: xs[0], last: xs[xs.length - 1], sec: Math.round((w[k][1] - w[k][0]) / 1000), live: w[k][2] };
+    }
+    const vals = Object.values(st).flatMap((x) => [x.min, x.max]);
+    if (base) vals.push(base.bpm);
+    if (state.lastSample) vals.push(state.lastSample.bpm);
+    let lo = vals.length ? Math.min(...vals) - 3 : 60; let hi = vals.length ? Math.max(...vals) + 3 : 100;
+    if (hi - lo < 16) { const m = (hi + lo) / 2; lo = m - 8; hi = m + 8; }
+    const y = (v) => Math.max(0, Math.min(100, (hi - v) / (hi - lo) * 100));   // 距顶部的百分比
+    const fmt = (sec) => (sec >= 60 ? `${Math.floor(sec / 60)}:${String(sec % 60).padStart(2, '0')}` : `${sec}s`);
+    for (const k of ['gen', 'read', 'write']) {
+      const col = el.ph[k]; const s2 = st[k];
+      const range = col.querySelector('.range'); const dot = col.querySelector('.now'); const pv = col.querySelector('.pv');
+      col.classList.toggle('cur', !!(s2 && s2.live));   // 不能叫 live：和胶囊上的 .live 小点样式撞名
+      col.classList.toggle('none', !s2);
+      const pt = col.querySelector('.pt');
+      if (!s2) { range.style.cssText = ''; dot.style.cssText = ''; pv.textContent = '--'; pt.textContent = k === 'write' && w.read && w.read[2] ? '还没打字' : k === 'gen' ? '等你发送' : ''; continue; }
+      range.style.top = `${y(s2.max)}%`; range.style.height = `${Math.max(2, y(s2.min) - y(s2.max))}%`;
+      dot.style.top = `${y(s2.last)}%`;
+      const dir = s2.last - s2.first;
+      pv.textContent = `${s2.first}→${s2.last} ${dir >= 3 ? '↑' : dir <= -3 ? '↓' : '·'}`;
+      pt.textContent = s2.live ? `进行中 ${fmt(s2.sec)}` : fmt(s2.sec);
+    }
+    el.baseLine.hidden = !base;
+    if (base) {
+      el.baseLine.style.top = `${Math.round(72 * y(base.bpm) / 100)}px`;   // 72px = .track 的高度
+      el.base.textContent = `平静心率 ${base.bpm}（${BASE_SHORT[base.method] || base.method}）`;
+    }
   }
   const esc = (v) => String(v == null ? '' : v).replace(/[&<>"]/g, (ch) => ({ '&': '&amp;', '<': '&lt;', '>': '&gt;', '"': '&quot;' }[ch]));
   const BASE_SHORT = { manual: '手动', 'quiet-median': '自动', p20: '估算' };
@@ -2571,15 +2661,11 @@ button:focus-visible{outline:2px solid var(--teal);outline-offset:2px}
       el.hrState.textContent = on ? (m2.rr ? '· 含心跳间隔' : '') : `· ${tag}`;
       el.batt.textContent = state.battery != null ? `电量 ${state.battery}%` : '';
       el.cbpm.textContent = on ? String(state.lastSample.bpm) : '--';
-      el.cdelta.textContent = d != null ? `比平静 ${d >= 0 ? '+' : ''}${d}%` : '';
+      el.cdelta.textContent = d != null ? `${d >= 0 ? '+' : ''}${d}%` : '';
+      el.cdelta.title = base && d != null ? `比平静心率（${base.bpm}）${d >= 0 ? '高' : '低'} ${Math.abs(d)}%` : '';
       el.cdelta.className = 'd' + (d != null && d >= 10 ? ' up' : '');
-      const w = wideSpark(base ? base.bpm : null);
-      el.cline.setAttribute('d', w.line); el.carea.setAttribute('d', w.area);
-      el.cref.style.display = w.refY == null ? 'none' : '';
-      if (w.refY != null) { el.cref.setAttribute('y1', w.refY); el.cref.setAttribute('y2', w.refY); el.crefLabel.setAttribute('y', Math.max(8, w.refY - 3)); el.crefLabel.textContent = `平静 ${base.bpm}`; }
-      el.base.innerHTML = base ? `${base.bpm} <i>${BASE_SHORT[base.method] || base.method}</i>` : '--';
+      renderPhases(base, now);
       const hist = history(); const lastTurn = hist[hist.length - 1];
-      el.read.innerHTML = lastTurn ? `${lastTurn.readFirst}→${lastTurn.readLast} <i>峰</i> ${lastTurn.readPeak}` : '--';
       el.hrv.innerHTML = lastTurn ? (lastTurn.hrv != null ? `${lastTurn.hrv} <i>ms</i>` : '<i>信号不足</i>') : (base && base.hrv ? `${base.hrv} <i>ms</i>` : '--');
       el.last.textContent = hist.length ? hist.slice(-5).map((x) => x.readPeak).join(' ') : '--';
       const sig = lastSignal();
@@ -2645,6 +2731,7 @@ button:focus-visible{outline:2px solid var(--teal);outline-offset:2px}
     try { actuators.stop(); } catch (_) {}
     try { stopIntiface(); } catch (_) {}
     try { stopWasm(); } catch (_) {}
+    try { stopAdvertisementWatch(); } catch (_) {}
     while (disposers.length) { try { disposers.pop()(); } catch (_) {} }
     try { hostEl && hostEl.remove(); } catch (_) {}
     clearInject();

diff --git a/CHANGELOG.md b/CHANGELOG.md
@@ -1,5 +1,13 @@
 # 更新记录
 
+## 0.13.0
+
+- 健康设备页加入相位竖条：看生成 / 读回复 / 写消息各一根，显示这段时间心率的起伏与方向，正在进行的相位会标出来；虚线是平静心率。
+- 平静心率只在一处显示，点“调整”记下或改回自动；去掉重复的卡片和按钮。
+- 安全：“全部停止”和安全词会同时取消回复里还在排队的动作。
+- 蓝牙：等设备回来的扫描可以真正停止；换设备时释放旧设备；“连着但没数据”试 3 轮后不再反复重连。
+- 其它：没装本机桥时不再每分钟重试；浏览器不支持后台计时时，页面切走即停玩具；“代写”不再被当成新的一轮；长时间挂着时注入块不会变长。
+
 ## 0.12.0
 
 - 悬浮窗重新设计：分段标签、大号心率与 3 分钟走势、数据卡片、开关用拨动开关、模式 / 节奏 / 上限用分段选择、醒目的“全部停止”。

diff --git a/README.md b/README.md
@@ -21,7 +21,8 @@ heartlink 做三件事，**不替你理解剧情**：
 - **gen / read** 属于上一条回复：你等它生成、读它时的心率。模型据此判断上一段写得怎么样。
 - **write / send** 属于这一条消息：你打字、按下发送时的心率。
 - 页面切走或长时间没操作的时段（away）不计入。
-- 平静心率（基线）默认按本场安静时段自动算，也可以手动记；悬浮窗里的“比平静 +N%”就是和它比，走势图里的虚线就是它。
+- 平静心率（基线）默认按本场安静时段自动算，也可以手动记。
+- 悬浮窗的健康设备页用三根竖条实时显示这几个相位（竖条是这段时间心率的起伏，虚线是平静心率），右上角的 +N% 也是和平静心率比。
 
 格式由 [Tavern Bio-Context 协议](https://github.com/kcgoofee-jpg/tavern-bio-context) 规定，任何卡片、预设、扩展都可以读。
 
